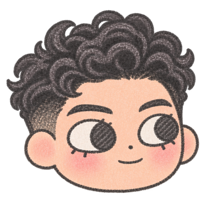
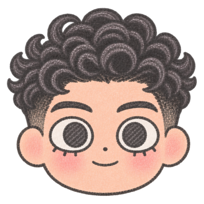
Use front-facing portraits on the Tokyo trip card

diff --git a/data.js b/data.js
@@ -13,8 +13,8 @@ window.TRIPS = [
   {
     id: 'tokyo-demo', year: 2026, country: 'Japan', countryCode: 'JPN', city: 'Tokyo',
     characters: [
-      {name: 'Zoe', image: 'assets/zoe-traveler.png', portrait: 'assets/zoe-portrait.png', walkCycle: 'assets/zoe-walk-cycle.png', tastingImage: 'assets/zoe-tasting.png'},
-      {name: 'her travel companion', image: 'assets/travel-companion.png', portrait: 'assets/companion-portrait.png', walkCycle: 'assets/companion-walk-cycle.png', tastingImage: 'assets/companion-tasting.png'}
+      {name: 'Zoe', image: 'assets/zoe-traveler.png', portrait: 'assets/zoe-portrait.png?v=2', walkCycle: 'assets/zoe-walk-cycle.png', tastingImage: 'assets/zoe-tasting.png'},
+      {name: 'her travel companion', image: 'assets/travel-companion.png', portrait: 'assets/companion-portrait.png?v=2', walkCycle: 'assets/companion-walk-cycle.png', tastingImage: 'assets/companion-tasting.png'}
     ],
     month: 'September', start: '2026-09-25', end: '2026-09-28', accent: 'lavender', cover: '',
     days: [

diff --git a/index.html b/index.html
@@ -11,7 +11,7 @@
   <link rel="preconnect" href="https://fonts.gstatic.com" crossorigin>
   <link href="https://fonts.googleapis.com/css2?family=Patrick+Hand&display=swap" rel="stylesheet">
   <link rel="stylesheet" href="styles.css?v=7">
-  <script defer src="data.js?v=7"></script>
+  <script defer src="data.js?v=8"></script>
   <script defer src="assets/world.js"></script>
   <script defer src="journey.js?v=6"></script>
   <script defer src="app.js?v=7"></script>
